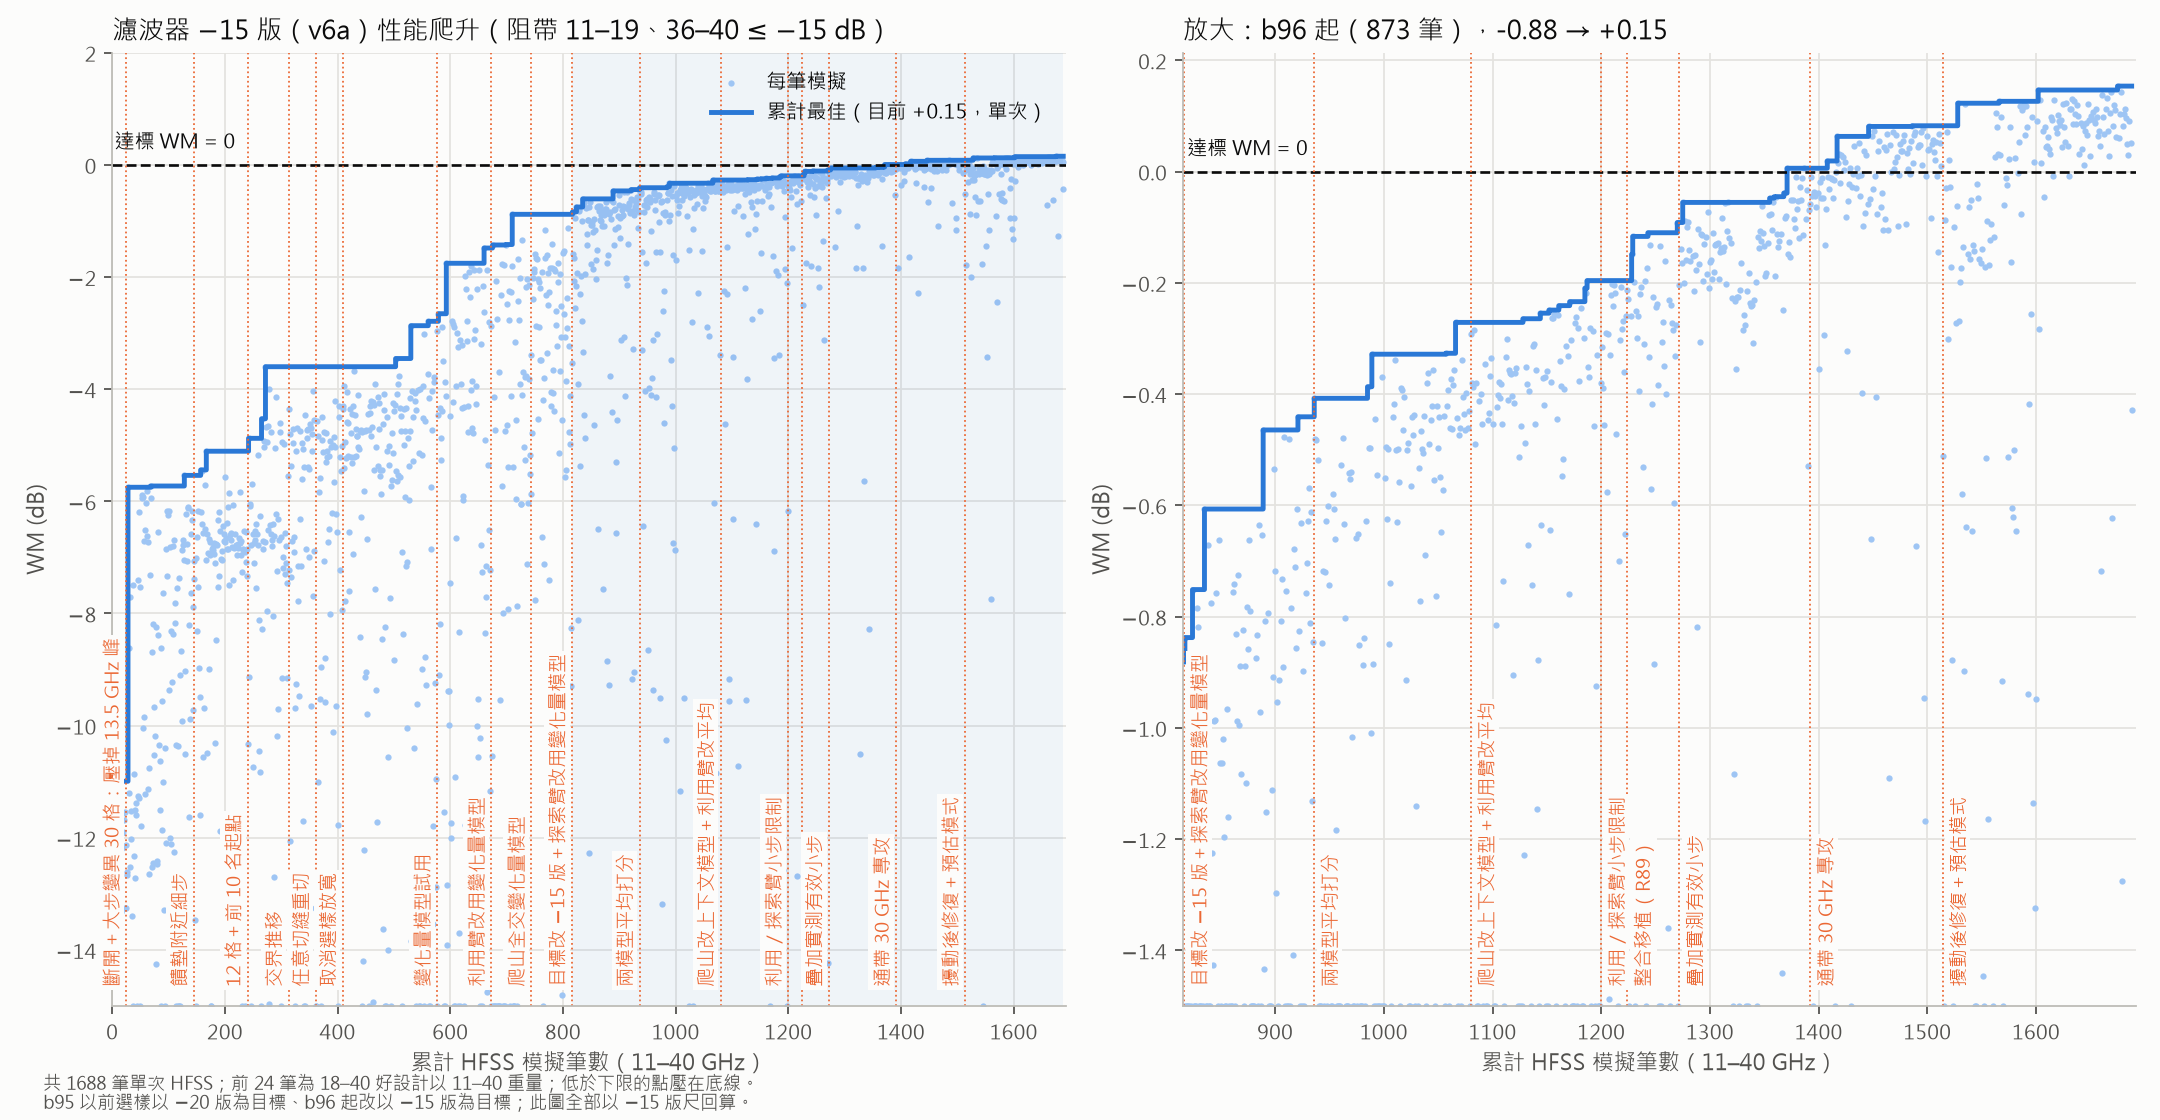
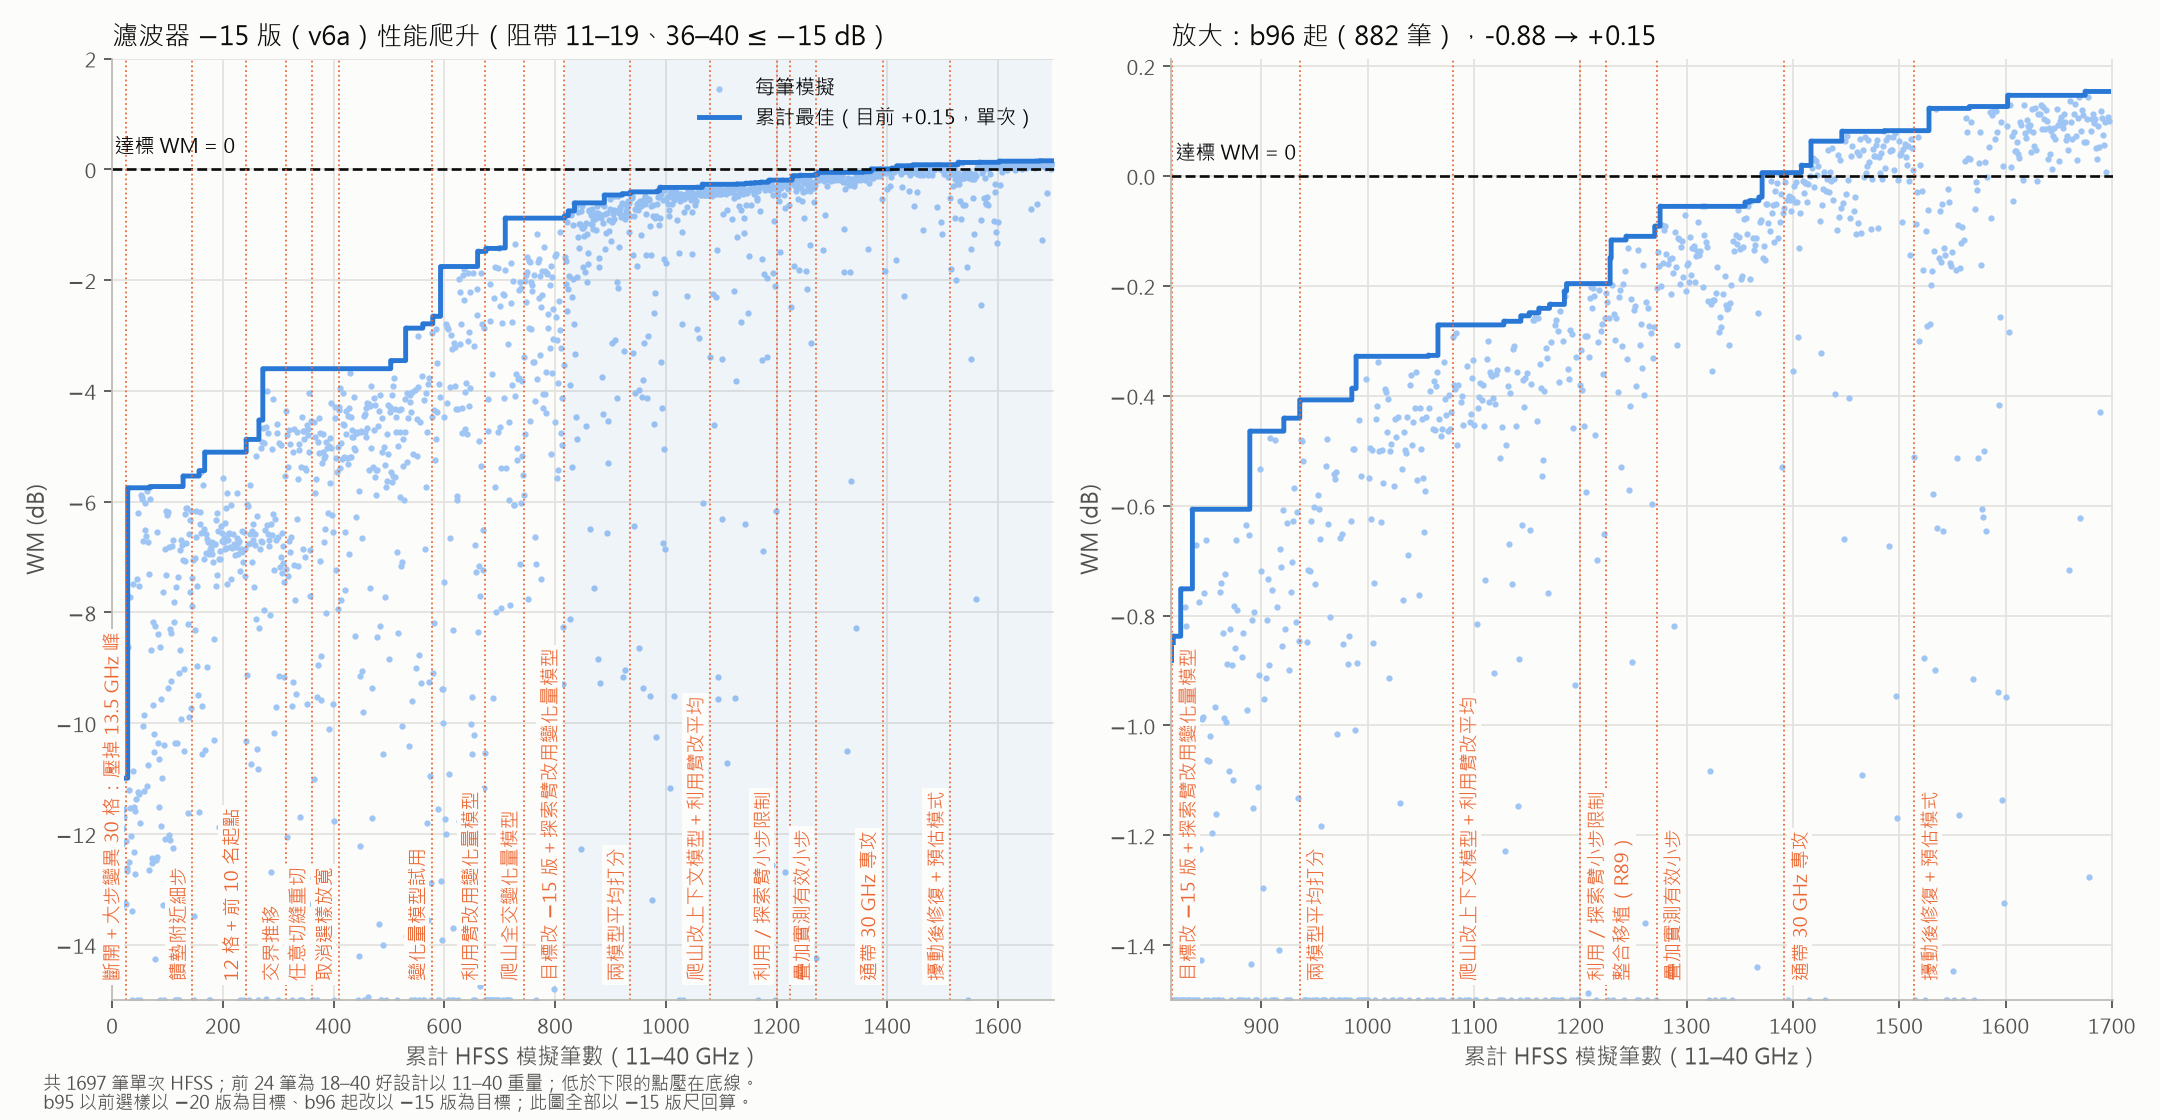
R93：公證 n12——mg18_011 +0.154（37=216），公證最佳；圖卡更新

diff --git a/script/figs/r81_v6.py b/script/figs/r81_v6.py
@@ -28,7 +28,8 @@ MG_AFTER = {1: 112, 2: 113, 3: 113, 4: 114, 5: 114, 6: 114, 7: 114, 8: 114, 9: 1
 NOTARIZED = {                     # v6a 跨機公證通過（round-89／90）；圖卡優先挑這些，標題註明
     "r81v6mg05_009_59eb9c0e": "216＝218", "r81v6mg06_002_fc2c5910": "216＝218", "r81v6mg07_003_329c2f14": "216＝218",
     "r81v6mg08_018_41808495": "216＝218", "r81v6mg13_019_32a4c2ad": "216＝37", "r81v6mg13_017_e23e29e6": "216＝37",
-    "r81v6mg14_015_00661532": "216＝37", "r81v6mg15_005_c943952c": "216＝37"}
+    "r81v6mg14_015_00661532": "216＝37", "r81v6mg15_005_c943952c": "216＝37",
+    "r81v6mg18_011_9c63dfbd": "37＝216"}
 
 
 def rows_v6(cfg, grid):

diff --git a/configs/ONGOING.md b/configs/ONGOING.md
@@ -4,7 +4,7 @@
 > 2026-10-12 前的完整流水帳（R80 收尾、Codex 的 R81 release 機制、diffsim、資料工廠、🔜 候選、✅ 指標）原樣封存在
 > [docs/log/archive/ongoing-2026-10-12.md](../docs/log/archive/ongoing-2026-10-12.md)。
 
-最後更新：2026-10-22 09:48
+最後更新：2026-10-22 10:13
 
 ## 🔵 R81 寬頻濾波器 spec v2（running）→ [round-81](../docs/log/round-81-wide-filter.md)
 
@@ -43,6 +43,7 @@
 
 ## 🔵 R93 v6a 續爬（running）→ [round-93](../docs/log/round-93-v6a-thicken.md)
 
+- **10-22 10:13 公證最佳 `mg18_011` +0.154**（37＝216；低阻 +1.01、高阻 +3.43、S11 +0.93、S22 +5.19）。
 - **Ricky 10-22：「繼續去爬 −15 吧」**——v6 暫緩（R91／R92 不成立）。公證最佳 `mg15_005` +0.147；單次 `mg18_011` +0.154（公證 n12）。mg19（prio −1）、mg20（prio −5）進行中。
 - 待查：218 對部分幾何離群（`C:ntenna\Antenna` 的 git／HFSS 版本）。
 

diff --git a/docs/log/round-93-v6a-thicken.md b/docs/log/round-93-v6a-thicken.md
@@ -23,6 +23,11 @@
 
 ## 4. 分析 (Analyze)
 
+### 2026-10-22 10:13：公證 n12——**mg18_011 +0.154（37＝216）**，公證最佳
+
+- `mg18_011`（mg18 單塊移植，37 原量）216 重量 **WM +0.1537，曲線差 1×10⁻⁶ dB**。五項：通帶 +0.154、低阻 +1.008、高阻 +3.426、S11 +0.929、S22 +5.194——各項餘裕皆厚。
+- mg19 前兩片最佳 +0.12（未超越）。
+
 ## 5. 結論 (Conclude)
 
 ## 6. 後續決策 (Next)
